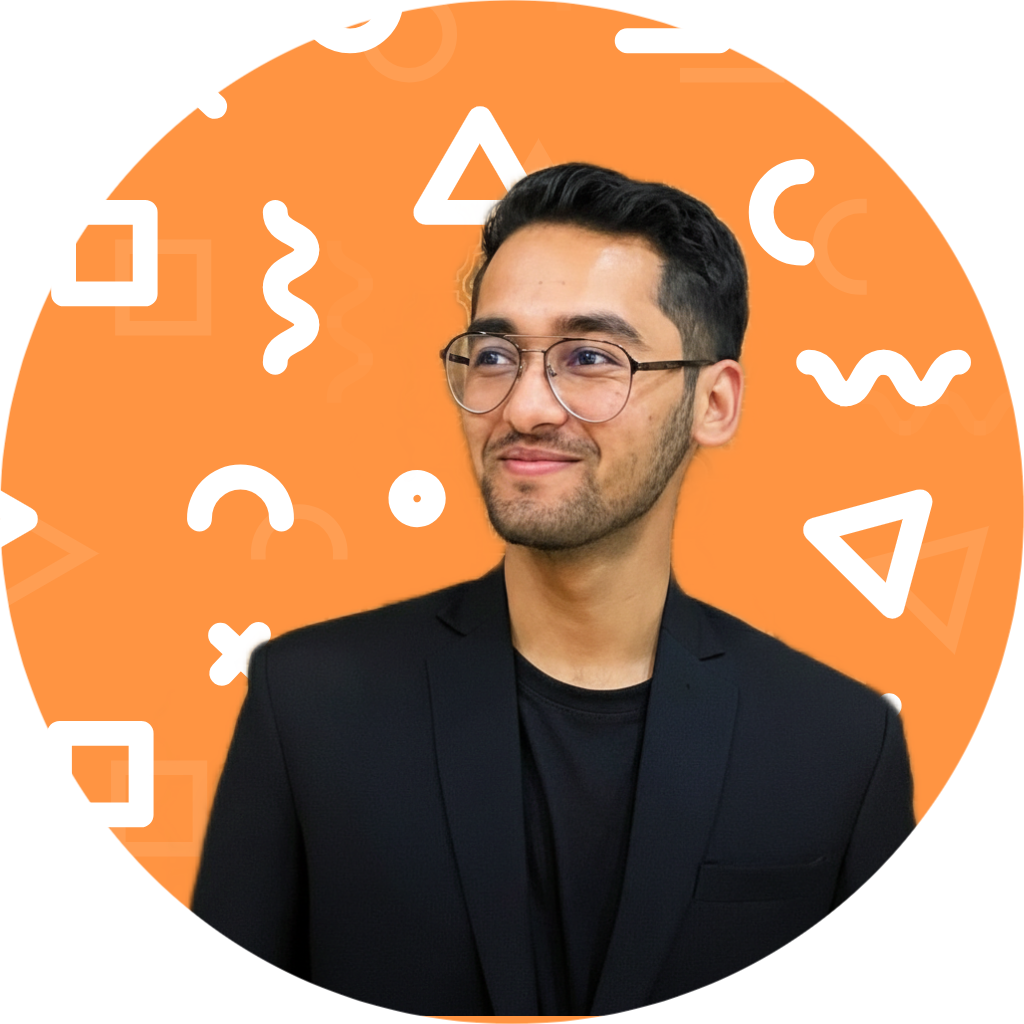
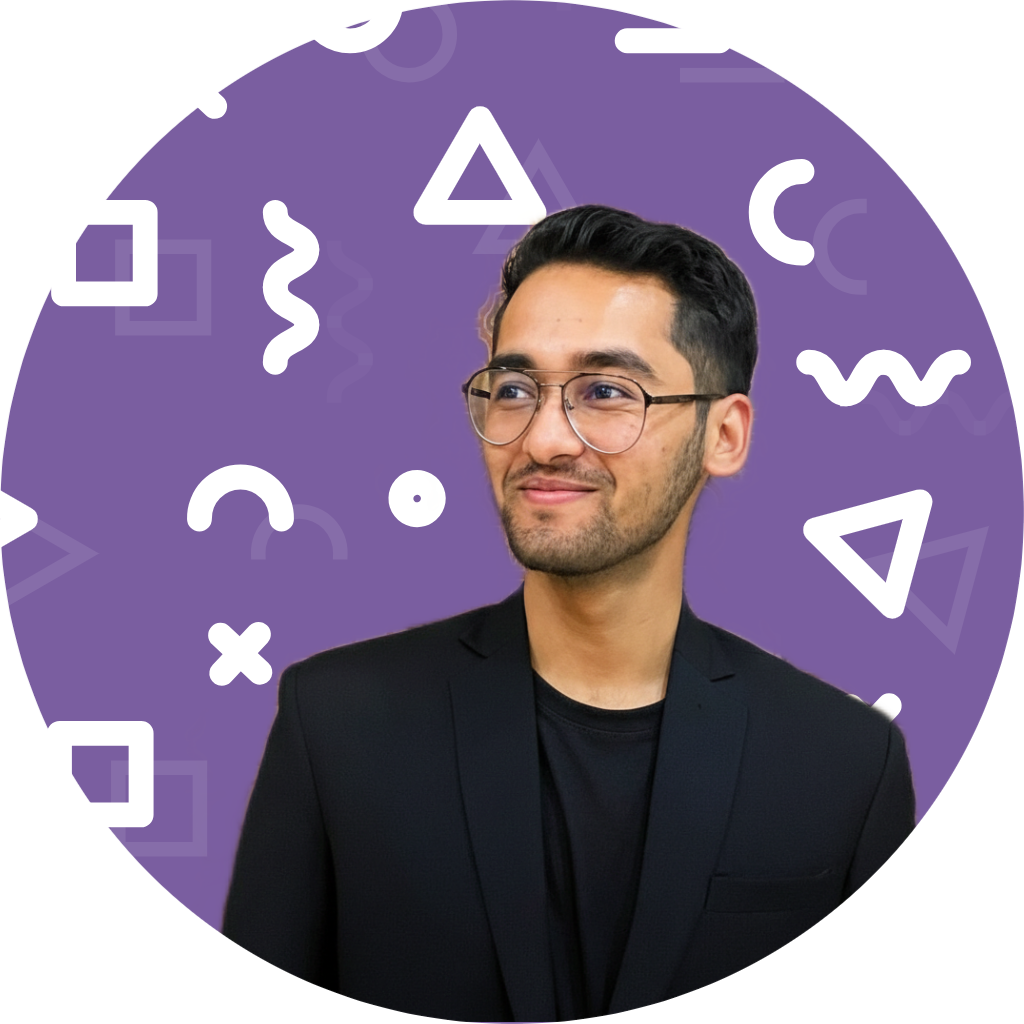
Home and introduction section

diff --git a/style.css b/style.css
@@ -7,8 +7,8 @@
     box-sizing: border-box;
 }
 :root{
-    --primary-color: #ff9442;
-    --secondary-color: #0c0a5d;
+    --primary-color: #7a5ea0;
+    --secondary-color: #333;
     --text-dark:#030712;
     --text-light:#4b5564;
     --extra-light:#f5f6f8;
@@ -20,6 +20,7 @@ html,body{
 }
 body{
     font-family: "Poppins",sans-serif;
+
 }
 
 .section__container{
@@ -127,7 +128,9 @@ header{
     max-width: 350px;
     margin-inline:auto;
     margin-top: 2rem;
+   
 }
+
 .header__content h2{
     font-size: 1.5rem;
     font-weight: 500;
@@ -205,6 +208,119 @@ header{
 .intro__content :is(.section__subheader,.section__header){
     text-align: left;
 }
+.intro__description{
+    margin-block:1rem 2rem;
+    color: var(--text-light);
+    line-height: 1.72rem;
+}
+.intro__grid{
+    margin-bottom: 2rem;
+    display: grid;
+    grid-template-columns: max-content max-content 1fr;
+    gap: 0.5rem 1rem;
+
+}
+
+.intro__grid h5{
+    display: flex;
+    align-items: center;
+    gap: 1rem;
+    font-size: 1rem;
+    font-weight: 500;
+    color: var(--text-dark);
+}
+.intro__grid h5 sapn{
+    font-size: 1.2rem;
+    color: var(--primary-color);
+}
+
+.intro__grid >span{
+    color: var(--text-dark);
+}
+.intro__grid span i{
+    color: var(--primary-color);
+}
+.intro__grid p{
+     color: var(--text-dark);
+}
+.intro__grid h4{
+    margin-bottom: 0.5rem;
+    font-size: 1.25rem;
+    font-weight: 600;
+    color: var(--secondary-color);
+}
+.intro__flex{
+    display: flex;
+    align-items: center;
+    justify-content: flex-start;
+    gap: 1rem 2rem;
+    flex-wrap: wrap;
+}
+.intro__flex div{
+    display: flex;
+    align-items: center;
+    gap: 10px;
+    font-weight: 500;
+    color: var(--secondary-color);
+}
+.intro__flex div span i{
+    color: var(--primary-color);
+}
+
+
+/* New Section */
+.choose{
+    background-color: var(--extra-light);
+}
+.choose__grid{
+    max-width: 900px;
+    margin-inline:auto;
+    margin-top: 4rem;
+    gap: 1rem 4rem;
+}
+
+.choose__card div{
+    margin-bottom: 10px;
+    display: flex;
+    justify-content: space-between;
+    align-items: center;
+    gap: 1rem;
+}
+
+.choose__card h4{
+    font-size: 1rem;
+    font-weight: 600;
+    color: var(--secondary-color);
+}
+.choose__progress{
+    position: relative;
+    isolation: isolate;
+    height: 10px;
+    background-color: rgba(0,0,0,0.2);
+    border-radius: 1rem;
+    overflow: hidden;
+}
+.choose__progress::before{
+    position: absolute;
+    content: "";
+    left: 0;
+    top: 0;
+    height: 100%;
+    background-color: var(--primary-color);
+    animation: progress-fill 2s forwards
+}
+
+@keyframes progress-fill {
+    0%{
+        width: 0;
+    }
+    100%{
+        width: var(--progress);
+    }
+}
+
+
+
 
 
 @media (width > 768px) {
@@ -266,5 +382,13 @@ header{
 
     .header__content :is(h1,h2,h3,p){
         text-align: left;
+    }
+
+    .intro__container{
+        grid-template-columns: repeat(2,1fr);
+        align-items: center;
+    }
+    .intro__grid{
+        gap: 0.5rem;
     }
 }

diff --git a/index.html b/index.html
@@ -94,7 +94,7 @@
             </div>
 
             <h4>My Interests</h4>
-            <div class="infro__flex">
+            <div class="intro__flex">
                 <div><span><i class="ri-headphone-line"></i></span>Music</div>
 
                 <div>
@@ -126,6 +126,56 @@
 
     </section>
 
+
+    <section class="choose">
+        <div class="section__container choose__container">
+            <p class="section__subheader">WHy Choose Me</p>
+            <h2 class="section__header">My Experties Area</h2>
+            <div class="choose__grid">
+
+                <div class="choose__card">
+                    <div>
+                        <h4>Django</h4>
+                        <h4>80%</h4>
+                    </div>
+                    <div class="choose__progress" style="--progress: 80%"></div>
+                </div>
+
+                <div class="choose__card">
+                    <div>
+                        <h4>Python</h4>
+                        <h4>80%</h4>
+                    </div>
+                    <div class="choose__progress" style="--progress: 80%"></div>
+                </div>
+
+                <div class="choose__card">
+                    <div>
+                        <h4>Java</h4>
+                        <h4>60%</h4>
+                    </div>
+                    <div class="choose__progress" style="--progress: 60%"></div>
+                </div>
+
+                <div class="choose__card">
+                    <div>
+                        <h4>JavaScript</h4>
+                        <h4>40%</h4>
+                    </div>
+                    <div class="choose__progress" style="--progress: 40%"></div>
+                </div>
+
+                <div class="choose__card">
+                    <div>
+                        <h4>React</h4>
+                        <h4>50%</h4>
+                    </div>
+                    <div class="choose__progress" style="--progress: 70%"></div>
+                </div>
+
+            </div>
+        </div>
+    </section>
 
 
     <script src="https://unpkg.com/scrollreveal"></script>

diff --git a/script.js b/script.js
@@ -45,3 +45,34 @@ ScrollReveal().reveal(" .header__btns",{
   ...scrollRevealOption,
   delay:2500,
 })
+
+
+ScrollReveal().reveal(".intro__image",{
+  ...scrollRevealOption,
+  origin:"left",
+})
+ScrollReveal().reveal(" .intro__content .section__subheader",{
+  ...scrollRevealOption,
+  delay:500,
+})
+ScrollReveal().reveal(" .intro__content .section__header",{
+  ...scrollRevealOption,
+  delay:1000,
+})
+ScrollReveal().reveal(" .intro__description",{
+  ...scrollRevealOption,
+  delay:1500,
+})
+ScrollReveal().reveal(" .intro__grid",{
+  ...scrollRevealOption,
+  delay:2000,
+})
+ScrollReveal().reveal(" .intro__content h4",{
+  ...scrollRevealOption,
+  delay:2500,
+})
+ScrollReveal().reveal(" .intro__flex div",{
+  ...scrollRevealOption,
+  delay:3000,
+  interval: 500,
+})
